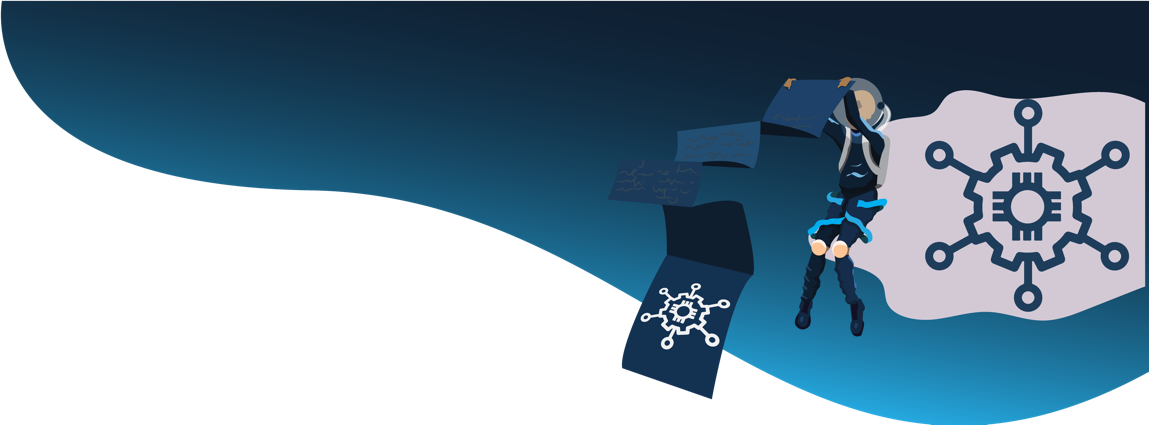
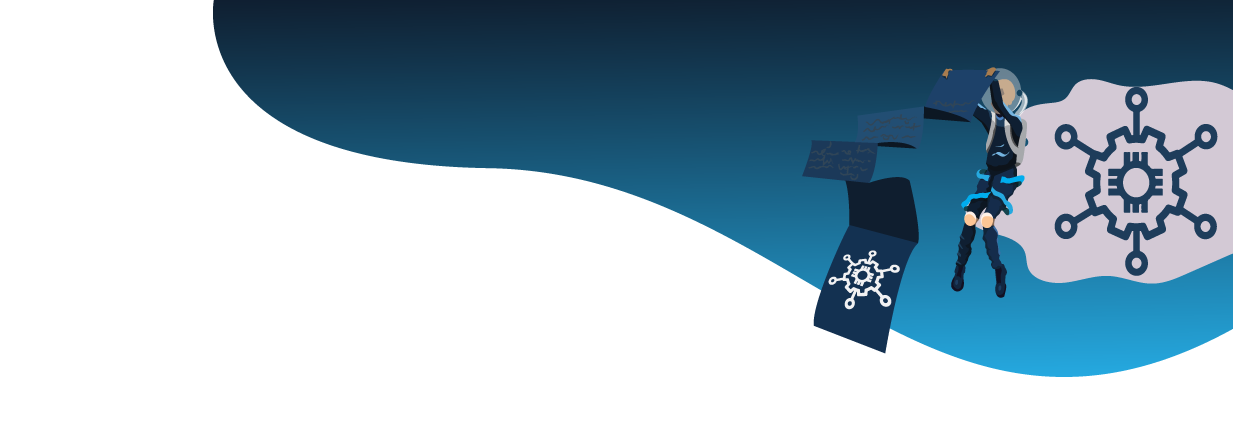
responsiveness

diff --git a/css/style.css b/css/style.css
@@ -184,13 +184,15 @@ i:before {
   border: none;
   border-radius: 0px;
   padding: 0px;
+  /*color: #f5f5f5;*/
 }
 
 .main_menu_area .navbar .navbar-toggler span {
   height: 3px;
   width: 25px;
   display: block;
-  background: #0b1033;
+  background: #f5f5f5;
+  /*color: #f5f5f5 !important;*/
   margin-bottom: 3px;
 }
 
@@ -198,11 +200,15 @@ i:before {
   margin-bottom: 0px;
 }
 
-@media (min-width: 992px) {
+@media (min-width: 365px) {
   .main_menu_area .navbar .navbar-collapse {
     text-align: right;
     display: block !important;
   }
+}
+
+.main_menu_area .navbar-brand img{
+    width: 10rem !important;
 }
 
 .main_menu_area .navbar .navbar-nav {
@@ -297,28 +303,28 @@ i:before {
   color: #F28500;
 }
 
-.main_menu_area.navbar_fixed {
-  position: fixed;
-  width: 100%;
-  top: -70px;
-  left: 0;
-  right: 0;
-  background: transparent;
-  /*background: rgba(0, 0, 0, 0.6);*/
-  -webkit-transform: translateY(70px);
-  -ms-transform: translateY(70px);
-  transform: translateY(70px);
-  -webkit-transition: background 500ms ease, -webkit-transform 500ms ease;
-  transition: background 500ms ease, -webkit-transform 500ms ease;
-  -o-transition: transform 500ms ease, background 500ms ease;
-  transition: transform 500ms ease, background 500ms ease;
-  transition: transform 500ms ease, background 500ms ease, -webkit-transform 500ms ease;
-  -webkit-transition: transform 500ms ease, background 500ms ease;
-  z-index: 999999;
-}
+/*.main_menu_area.navbar_fixed {*/
+/*  position: fixed;*/
+/*  width: 100%;*/
+/*  top: -70px;*/
+/*  left: 0;*/
+/*  right: 0;*/
+/*  background: transparent;*/
+/*  !*background: rgba(0, 0, 0, 0.6);*!*/
+/*  -webkit-transform: translateY(70px);*/
+/*  -ms-transform: translateY(70px);*/
+/*  transform: translateY(70px);*/
+/*  -webkit-transition: background 500ms ease, -webkit-transform 500ms ease;*/
+/*  transition: background 500ms ease, -webkit-transform 500ms ease;*/
+/*  -o-transition: transform 500ms ease, background 500ms ease;*/
+/*  transition: transform 500ms ease, background 500ms ease;*/
+/*  transition: transform 500ms ease, background 500ms ease, -webkit-transform 500ms ease;*/
+/*  -webkit-transition: transform 500ms ease, background 500ms ease;*/
+/*  z-index: 999999;*/
+/*}*/
 
 .main_menu_area.navbar_fixed .navbar .navbar-nav li a {
-  color: #1b1e21;
+  color: #f5f5f5;
   line-height: 70px;
 }
 
@@ -438,14 +444,15 @@ i:before {
 /* Slider css
 ============================================================================================ */
 .main_slider_area {
-  background: url(../img/home-slider/slider-bg-1.gif) no-repeat scroll center center;
+  background: url(../img/home-slider/slider-bg-1.gif) no-repeat scroll center top;
   position: relative;
-  background-size: cover;
+  background-size: 100%;
   width: 100%;
+  padding: 0 0 0 0;
 }
 
 .main_slider_area .rev_slider .tp-revslider-mainul li .slider_text_box .first_text {
-  font-weight: normal !important;
+  font-weight: bold !important;
   color: #0b1033;
 }
 
@@ -1172,7 +1179,8 @@ i:before {
 /* Best 3d Area css
 ============================================================================================ */
 .best_3d_area {
-  background: url(../img/gol-01.png) no-repeat scroll center center;
+  background: url(../img/gol-01.png) no-repeat scroll center bottom;
+  background-attachment: fixed;
   overflow: hidden;
   display: -webkit-box;
   display: -ms-flexbox;

diff --git a/portfolio.html b/portfolio.html
@@ -124,7 +124,8 @@
                         <img src="img/portfolio/ms-portfolio/ms-p-8.jpg" alt=""></a>
                 </div>
                 <div class="ms_p_item wd_25 brand arc photo">
-                    <img src="img/portfolio/ms-portfolio/ms-p-5.jpg" alt="">
+                    <a href="https://b-labeastafrica.net" target="_blank">
+                        <img src="img/portfolio/ms-portfolio/ms-p-5.png" alt=""></a>
                 </div>
                 <div class="ms_p_item wd_25 brand">
                     <a href="https://www.medkitsglobal.com/" target="_blank">
@@ -133,6 +134,14 @@
                 <div class="ms_p_item wd_25 design arc">
                     <a href="https://www.vavacoffeeinc.com/" target="_blank">
                         <img src="img/portfolio/ms-portfolio/ms-p-9.jpg" alt=""></a>
+                </div>
+
+                <div class="ms_p_item wd_25 design arc">
+                        <img src="img/portfolio/ms-portfolio/ms-p-11.jpg" alt="">
+                </div>
+                <div class="ms_p_item wd_25 design arc">
+                    <a href="https://sunland.co.ke" target="_blank">
+                        <img src="img/portfolio/ms-portfolio/ms-p-12.png" alt=""></a>
                 </div>
 
             </div>

diff --git a/index.html b/index.html
@@ -36,7 +36,7 @@
         
         <!--================Header Menu Area =================-->
         <header class="main_menu_area">
-            <nav class="navbar navbar-expand-lg navbar-light bg-light">
+            <nav class="navbar navbar-expand-lg navbar-light">
                 <a class="navbar-brand" href="#"><img src="img/logo.png" alt=""></a>
                 <button class="navbar-toggler" type="button" data-toggle="collapse" data-target="#navbarSupportedContent" aria-controls="navbarSupportedContent" aria-expanded="false" aria-label="Toggle navigation">
                     <span></span>
@@ -531,7 +531,7 @@
                             <!--<li><a href="#"><i class="fa fa-dribbble"></i></a></li>-->
                             <!--<li><a href="#"><i class="fa fa-behance"></i></a></li>-->
                             <!--<li><a href="#"><i class="fa fa-linkedin"></i></a></li>-->
-
+o
                         </ul>
                     </div>
                 </div>

diff --git a/css/responsive.css b/css/responsive.css
@@ -95,6 +95,7 @@
     .banner_area_aboutus:before {
         background: url(../img/banner/aboutus-01.png) no-repeat scroll top right;
         background-size: 100%;
+        padding-top: 0px;
     }
     .banner_area_service:before {
         background: url(../img/banner/serv-01.png) no-repeat scroll top right;
@@ -109,8 +110,9 @@
         background-size: 100%;
     }
     .best_3d_area {
-        background: url(../img/gol-01.png) no-repeat scroll center center;
+        background: url(../img/gol-01.png) no-repeat scroll center bottom;
         background-size: 100%;
+        background-attachment: fixed;
     }
 }
 @media (max-width: 991px){

diff --git a/scss/_slider.scss b/scss/_slider.scss
@@ -7,13 +7,15 @@
         .tp-revslider-mainul{
             li{
                 .slider_text_box{
-                    .first_text{
-                        font-weight: normal !important;
+                  border: solid 1px #0b2e13;
+
+                  .first_text{
+                        font-weight: bold !important;
                         color: $dip;
                     }
                     .secand_text{
                         color: #6b7d8e;
-                    }  
+                    }
                     .more_btn{
                         transition: all 400ms linear !important;
                         padding: 0px 53px;
